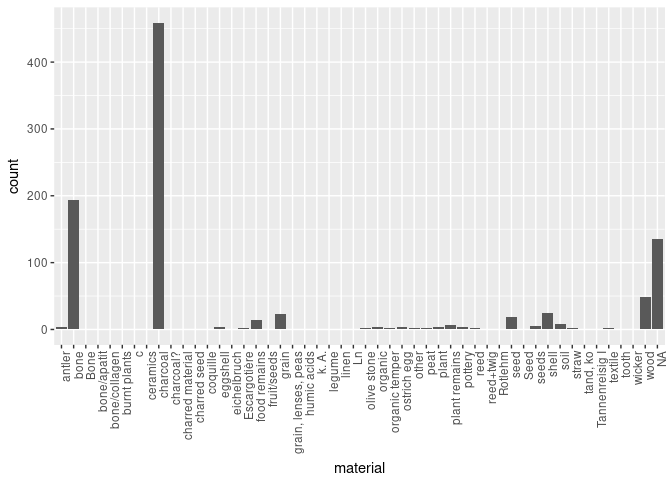
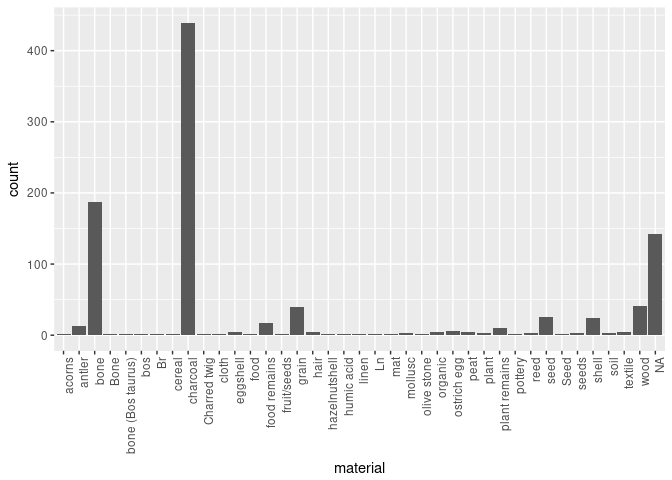
reknitted part 2
added remark regarding detaching rcarbon due to calibrate function dublication

diff --git a/scripts/second_part_c14bazAAR.md b/scripts/second_part_c14bazAAR.md
@@ -18,6 +18,8 @@ library(magrittr)
 library(mapview)
 library(sp)
 library(sf)
+# might be necessary to detach rcarbon first due to 'calibrate()' function
+# detach('package:rcarbon')
 library(c14bazAAR)
 ```
 
@@ -135,6 +137,26 @@ get_AustArch()
 ```
 
 ```
+## Warning in evalq(as.integer(c14age), <environment>): NAs durch Umwandlung
+## erzeugt
+```
+
+```
+## Warning in evalq(as.integer(c14std), <environment>): NAs durch Umwandlung
+## erzeugt
+```
+
+```
+## Warning in evalq(as.double(lat), <environment>): NAs durch Umwandlung
+## erzeugt
+```
+
+```
+## Warning in evalq(as.double(lon), <environment>): NAs durch Umwandlung
+## erzeugt
+```
+
+```
 ## 	Radiocarbon date list
 ## 	dates		5044
 ## 	sites		1743
@@ -201,6 +223,36 @@ all_dates <- get_all_dates()
 
 ```
 ## Trying to download all dates...
+```
+
+```
+## Warning in evalq(as.integer(c14age), <environment>): NAs durch Umwandlung
+## erzeugt
+```
+
+```
+## Warning in evalq(as.integer(c14age), <environment>): NAs durch Umwandlung
+## erzeugt
+```
+
+```
+## Warning in evalq(as.integer(c14std), <environment>): NAs durch Umwandlung
+## erzeugt
+```
+
+```
+## Warning in evalq(as.double(lat), <environment>): NAs durch Umwandlung
+## erzeugt
+```
+
+```
+## Warning in evalq(as.double(lon), <environment>): NAs durch Umwandlung
+## erzeugt
+```
+
+```
+## Warning in evalq(as.double(c13val), <environment>): NAs durch Umwandlung
+## erzeugt
 ```
 
 ### An own data structure: the c14_date_list
@@ -447,23 +499,19 @@ unique(calpal$material)
 ```
 
 ```
-##  [1] "charcoal"            "bone"                NA                   
-##  [4] "textile"             "organic"             "grain"              
-##  [7] "Escargotière"        "wood"                "straw"              
-## [10] "shell"               "seed"                "Bone"               
-## [13] "food remains"        "charred material"    "seeds"              
-## [16] "reed"                "plant remains"       "charred seed"       
-## [19] "grain, lenses, peas" "coquille"            "ceramics"           
-## [22] "eggshell"            "wicker"              "peat"               
-## [25] "fruit/seeds"         "pottery"             "antler"             
-## [28] "linen"               "soil"                "other"              
-## [31] "legume"              "plant"               "organic temper"     
-## [34] "Seed"                "Ln"                  "charcoal?"          
-## [37] "olive stone"         "Rotlehm"             "k. A."              
-## [40] "bone/collagen"       "reed+twig"           "ostrich egg"        
-## [43] "eichelbruch"         "bone/apatit"         "c"                  
-## [46] "tooth"               "tand, ko"            "humic acids"        
-## [49] "Tannenreisig I"      "burnt plants"
+##  [1] "charcoal"          NA                  "seed"             
+##  [4] "bone"              "wood"              "grain"            
+##  [7] "food remains"      "eggshell"          "shell"            
+## [10] "antler"            "ostrich egg"       "linen"            
+## [13] "hazelnutshell"     "plant"             "textile"          
+## [16] "bone (Bos taurus)" "Seed"              "plant remains"    
+## [19] "seeds"             "mollusc"           "olive stone"      
+## [22] "Charred twig"      "acorns"            "organic"          
+## [25] "pottery"           "cloth"             "humic acid"       
+## [28] "peat"              "soil"              "mat"              
+## [31] "cereal"            "Br"                "reed"             
+## [34] "fruit/seeds"       "food"              "bos"              
+## [37] "Bone"              "hair"              "Ln"
 ```
 
 ```r
@@ -656,8 +704,8 @@ duplicate_selection %>%
 
 ```
 ## n
-##    1    2    3    5   17 
-## 4675  139    5    3    1
+##    1    2    5    9   23 
+## 4649  157    1    1    1
 ```
 
 `mark_duplicates` searches for duplicates in labnrs and marks duplicate groups.
@@ -695,7 +743,8 @@ duplicate_selection$duplicate_group %>% unique
 ##  [86]  84  85  86  87  88  89  90  91  92  93  94  95  96  97  98  99 100
 ## [103] 101 102 103 104 105 106 107 108 109 110 111 112 113 114 115 116 117
 ## [120] 118 119 120 121 122 123 124 125 126 127 128 129 130 131 132 133 134
-## [137] 135 136 137 138 139 140 141 142 143 144 145 146
+## [137] 135 136 137 138 139 140 141 142 143 144 145 146 147 148 149 150 151
+## [154] 152 153 154 155 156 157 158
 ```
 
 ```r
@@ -707,8 +756,8 @@ duplicate_selection %>%
 ## # A tibble: 2 x 20
 ##   sourcedb method labnr c14age c14std c13val site  sitetype feature period
 ##   <chr>    <chr>  <chr>  <int>  <int>  <dbl> <chr> <chr>    <chr>   <chr> 
-## 1 CALPAL   14C    Ki-6…   4290     90     0. Pere… <NA>     <NA>    Bronz…
-## 2 CALPAL   14C    Ki-6…   4070    120     0. Verk… <NA>     <NA>    Bronz…
+## 1 RADON    <NA>   GrA-…   4675     35  -30.7 Radd… enclosu… inner … <NA>  
+## 2 EUROEVOL <NA>   GrA-…   4675     35   NA   Radd… <NA>     <NA>    UN    
 ## # ... with 10 more variables: culture <chr>, material <chr>,
 ## #   species <chr>, region <chr>, country <chr>, lat <dbl>, lon <dbl>,
 ## #   shortref <chr>, comment <chr>, duplicate_group <int>
@@ -736,7 +785,7 @@ duplicates_removed %>%
 ## # A tibble: 1 x 21
 ##   sourcedb method labnr c14age c14std c13val site  sitetype feature period
 ##   <chr>    <chr>  <chr>  <int>  <int>  <dbl> <chr> <chr>    <chr>   <chr> 
-## 1 CALPAL   14C    Ki-6…     NA     NA     0. <NA>  <NA>     <NA>    Bronz…
+## 1 <NA>     <NA>   GrA-…   4675     35  -30.7 <NA>  enclosu… inner … UN    
 ## # ... with 11 more variables: culture <chr>, material <chr>,
 ## #   species <chr>, region <chr>, country <chr>, lat <dbl>, lon <dbl>,
 ## #   shortref <chr>, comment <chr>, duplicate_group <int>,
@@ -750,7 +799,7 @@ duplicates_removed %>%
 ```
 
 ```
-## [1] "sourcedb: CALPAL, method: 14C, labnr: Ki-602, c14age: 4290|4070, c14std: 90|120, c13val: 0, site: Perescepino|Verkhne Tarasovka, sitetype: NA, feature: NA, period: Bronze Age, culture: Pit Grave Culture, material: NA, species: NA, region: NA, country: Ukraine, lat: 49.02|NA, lon: 35.19|NA, shortref: Bojadziev 1998, comment: Zaitseva 2004|NA, duplicate_group: 30"
+## [1] "sourcedb: RADON|EUROEVOL, method: NA, labnr: GrA-31190, c14age: 4675, c14std: 35, c13val: -30.7|NA, site: Raddon, Devon|Raddon, sitetype: enclosure|NA, feature: inner ditch, area B, ditch II, F576, context %73, from layer in mid fill of ditch, stratified above 574|NA, period: NA|UN, culture: Neolithikum|NA, material: miscellaneous|carbonised residue, species: small neolithic bowl sherd, with some internal residue|NA, region: NA, country: United Kingdom|Great Britain, lat: 50.816931|50.8212, lon: -3.58342|-0.744189, shortref: Albert & Schröter 1977|NA, comment: NA, duplicate_group: 30"
 ```
 
 Another way to get a first understanding on the data without the duplicates is to just keep the first date in every duplicate group.
@@ -764,20 +813,20 @@ duplicate_selection[!is.na(duplicate_selection$duplicate_group), ] %>%
 ```
 
 ```
-## # A tibble: 147 x 20
-##    sourcedb method labnr  c14age c14std c13val site     sitetype  feature 
-##    <chr>    <chr>  <chr>   <int>  <int>  <dbl> <chr>    <chr>     <chr>   
-##  1 EUROEVOL <NA>   OxA-1…   6605     50   NA   Creag n… <NA>      <NA>    
-##  2 RADON    <NA>   GrN-2…   7285     25   NA   Marienb… <NA>      <NA>    
-##  3 RADON    <NA>   K-555    5840    120   NA   Zwenkau… settleme… Pfosten…
-##  4 RADON    <NA>   St-69…   4490     95  -20.2 Alvastra collecti… femur f…
-##  5 RADON    <NA>   GrN-1…   8120     80   NA   Glimmer  <NA>      <NA>    
-##  6 RADON-B  <NA>   GrN-6…   4025     95   NA   Zambujal <NA>      <NA>    
-##  7 RADON    <NA>   Beta-…   4140     60   NA   Maghera… <NA>      <NA>    
-##  8 CALPAL   14C    OxA-3…   9390     70    0.  Palynol… <NA>      <NA>    
-##  9 CALPAL   14C    ETH-9…   6165     85    0.  Arleshe… <NA>      <NA>    
-## 10 RADON    <NA>   OxA-1…   4000    120  -21.0 Winterb… <NA>      W55C, 3…
-## # ... with 137 more rows, and 11 more variables: period <chr>,
+## # A tibble: 159 x 20
+##    sourcedb method labnr  c14age c14std c13val site       sitetype feature
+##    <chr>    <chr>  <chr>   <int>  <int>  <dbl> <chr>      <chr>    <chr>  
+##  1 CALPAL   14C    Lu-15…   6710     70     0. Ageröd V   <NA>     <NA>   
+##  2 RADON    <NA>   HAR-6…   3570    100    NA  Brenig     <NA>     <NA>   
+##  3 EUROEVOL <NA>   GrN-2…   8020     50    NA  Groningen  <NA>     <NA>   
+##  4 CALPAL   14C    Lu-845   3540     60     0. Hindby mo… <NA>     <NA>   
+##  5 RADON    <NA>   Beta-…   5020    110    NA  Arene Can… <NA>     BB08 H 
+##  6 RADON    <NA>   OxA-1…   9700    160    NA  Vale of P… <NA>     56     
+##  7 CALPAL   14C    H-491…   5140    115     0. Heidmoor   <NA>     <NA>   
+##  8 RADON    <NA>   GrA-2…   4965     40    NA  Whitehawk  <NA>     <NA>   
+##  9 EUROEVOL <NA>   GrN-2…   6890     60    NA  Zwolle-Ha… <NA>     <NA>   
+## 10 EUROEVOL <NA>   Gif-1…   3700    120    NA  La Chauss… <NA>     <NA>   
+## # ... with 149 more rows, and 11 more variables: period <chr>,
 ## #   culture <chr>, material <chr>, species <chr>, region <chr>,
 ## #   country <chr>, lat <dbl>, lon <dbl>, shortref <chr>, comment <chr>,
 ## #   duplicate_group <int>
